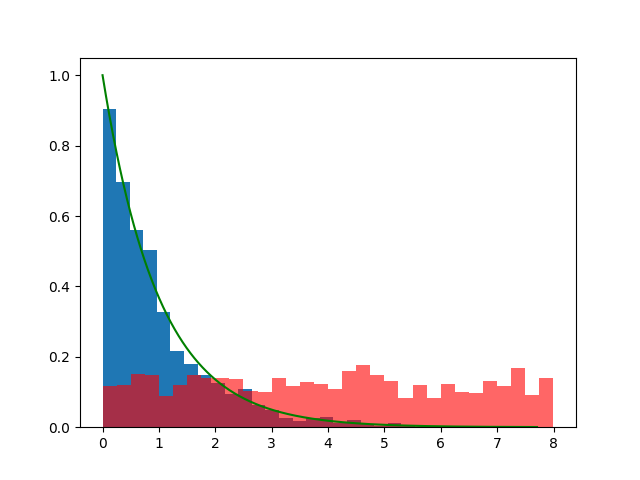
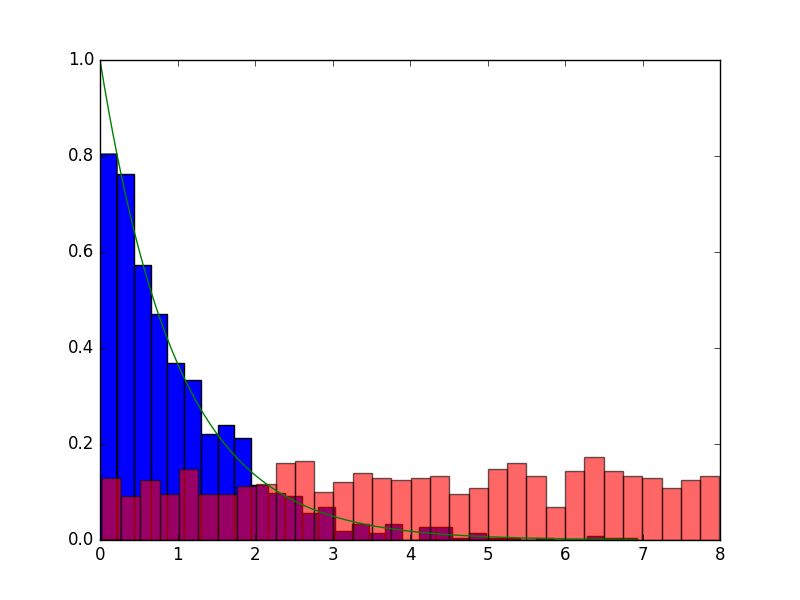
add box muller method.

diff --git a/probility/gen_dist_from_U.py b/probility/gen_dist_from_U.py
@@ -1,7 +1,6 @@
 # encoding: utf8
 
 '''
-
 随机变量的积分变换
 
 下面的基于U(0,1)实现了几个常用的连续随机变量概率分布的随机数模拟
@@ -12,6 +11,8 @@ PMF: probility mass function
 PDF: probility density function
 
 对任意随机变量X, 它有连续的的CDF F(x), 定义随机变量 Y=F(X), 则Y为 [0,1]上的均匀分布，即有 P(Y<=y) = y 
+
+box-muller方法并没有了解原理
 '''
 
 import numpy as np
@@ -56,8 +57,10 @@ def gen_gauss_distribute_pdf(mu, sigma, sample_count, max_x):
 
     return gauss_x, gauss_y
 
-#画直方图
-#a, 样本值，
+'''
+画直方图
+a, 样本值
+'''
 def plt_hist(a, color='r', normed=False):
     sample_count = len(a)
     a.sort()
@@ -84,12 +87,15 @@ def plt_hist(a, color='r', normed=False):
         hist /= width #概率是面积。除以这个得到高度
 
     plt.bar(bins[0:group_count], hist, width = width, facecolor = 'lightskyblue',edgecolor = 'white', align='edge')
-
+    '''
     #也可以直接用这个来汇制直方图
-    #plt.hist(a, bins = group_count, normed=normed)
+    plt.hist(a, bins = group_count, normed=normed)
+    '''
 
-#样本数一般要 > 100
-#使用均匀分布随机数，生成符合正态分布的随机数
+'''
+样本数一般要 > 100
+使用均匀分布随机数，生成符合正态分布的随机数
+'''
 def gen_gauss_samples_byU(sample_count):
     sim_gauss_num = np.zeros(sample_count)
     sim_u = np.zeros(sample_count)
@@ -101,6 +107,23 @@ def gen_gauss_samples_byU(sample_count):
         sim_u[i] = u
 
     return sim_u, sim_gauss_num
+
+'''
+正态随机变量分布
+box muller方法:
+    U0, U1独立，且U0, U1 ~ Uniform[0,1], 则
+    Z0 = sqrt(-2ln(U0))cos(2*pi*U1)
+    Z1 = sqrt(-2ln(U1))sin(2*pi*U0)
+    且Z0, Z1独立, 且服从正态分布
+'''
+def gen_gauss_samples_by_BoxMuller(sample_count):
+    U0 = np.random.uniform(0, 1, size=sample_count)
+    U1 = np.random.uniform(0, 1, size=sample_count)
+
+    Z0 = np.sqrt(-2 * np.log(U0)) * np.cos(2 * np.pi * U1)
+    Z1 = np.sqrt(-2 * np.log(U1)) * np.sin(2 * np.pi * U0)
+
+    return Z0, Z1
 
 '''
 使用均匀分布随机数，生成符合指数分布的随机数
@@ -133,9 +156,11 @@ def gen_exp_distribute_pdf(sample_count, beta, max_x):
 
     return x,y
 
-#分组的数量在5－12之间较为适宜(本程序用的是下一条)
-#一般取总样本数开平方取上界. 上一个分组算法一般认为不合理
-#分得越细，和曲线偏差越大,但好看；分得粗，不好看
+'''
+分组的数量在5－12之间较为适宜(本程序用的是下一条)
+一般取总样本数开平方取上界. 上一个分组算法一般认为不合理
+分得越细，和曲线偏差越大,但好看；分得粗，不好看
+'''
 sample_count = 1000
 group_count = int(np.sqrt(sample_count) + 0.9999) 
 
@@ -165,6 +190,17 @@ plt.plot(gauss_x2, gauss_y2, 'b-')
 gauss_x2, gauss_y2 = gen_gauss_distribute_pdf_from_dist_table(0, 4)
 plt.plot(gauss_x2, gauss_y2, 'y-')
 plt.savefig('images/norm_distribute.png', format='png')
+
+#guass dist, by box-muller method
+plt.clf()
+X1, X2 = gen_gauss_samples_by_BoxMuller(sample_count)
+plt.hist(X2, bins = group_count, normed=True, color='r')
+plt.hist(X1, bins = group_count, normed=True, color='b', alpha=0.5)
+plt.savefig('images/norm_distribute_by_boxmuller.png', format='png')
+
+coef = np.dot(X1-X1.mean(), X2-X2.mean()) /sample_count/(X1.std() * X2.std())
+print 'gen gauss indepedent rav by box muller method.'
+print 'std of X1: %.4f; std of X2: %.4f; coeffience between X1 and X2: %.4f' % (X1.std(), X2.std(), coef)
 
 #指数分布相关
 plt.clf()

diff --git a/hypothetical_test/chi_square_test.py b/hypothetical_test/chi_square_test.py
@@ -6,6 +6,8 @@ from scipy.stats import chi,norm,poisson
 import pdb
 
 '''
+分布检验
+
 对chi_square 检验而言，自由度为样本的区间个数 - 1(k-1个区间的概率定了后，剩下的区间概率就确定了)
 
 fi: 实测第i个区间的频数

diff --git a/hypothetical_test/wald_vs_t_test.py b/hypothetical_test/wald_vs_t_test.py
@@ -7,6 +7,8 @@ from scipy.stats import norm
 import pdb
 
 '''
+参数检验
+
 H0: mu_hat = mu0; H1: mu_hat != mu0
 
 X ~ N(mu, sigma), mu,sigma都未知
